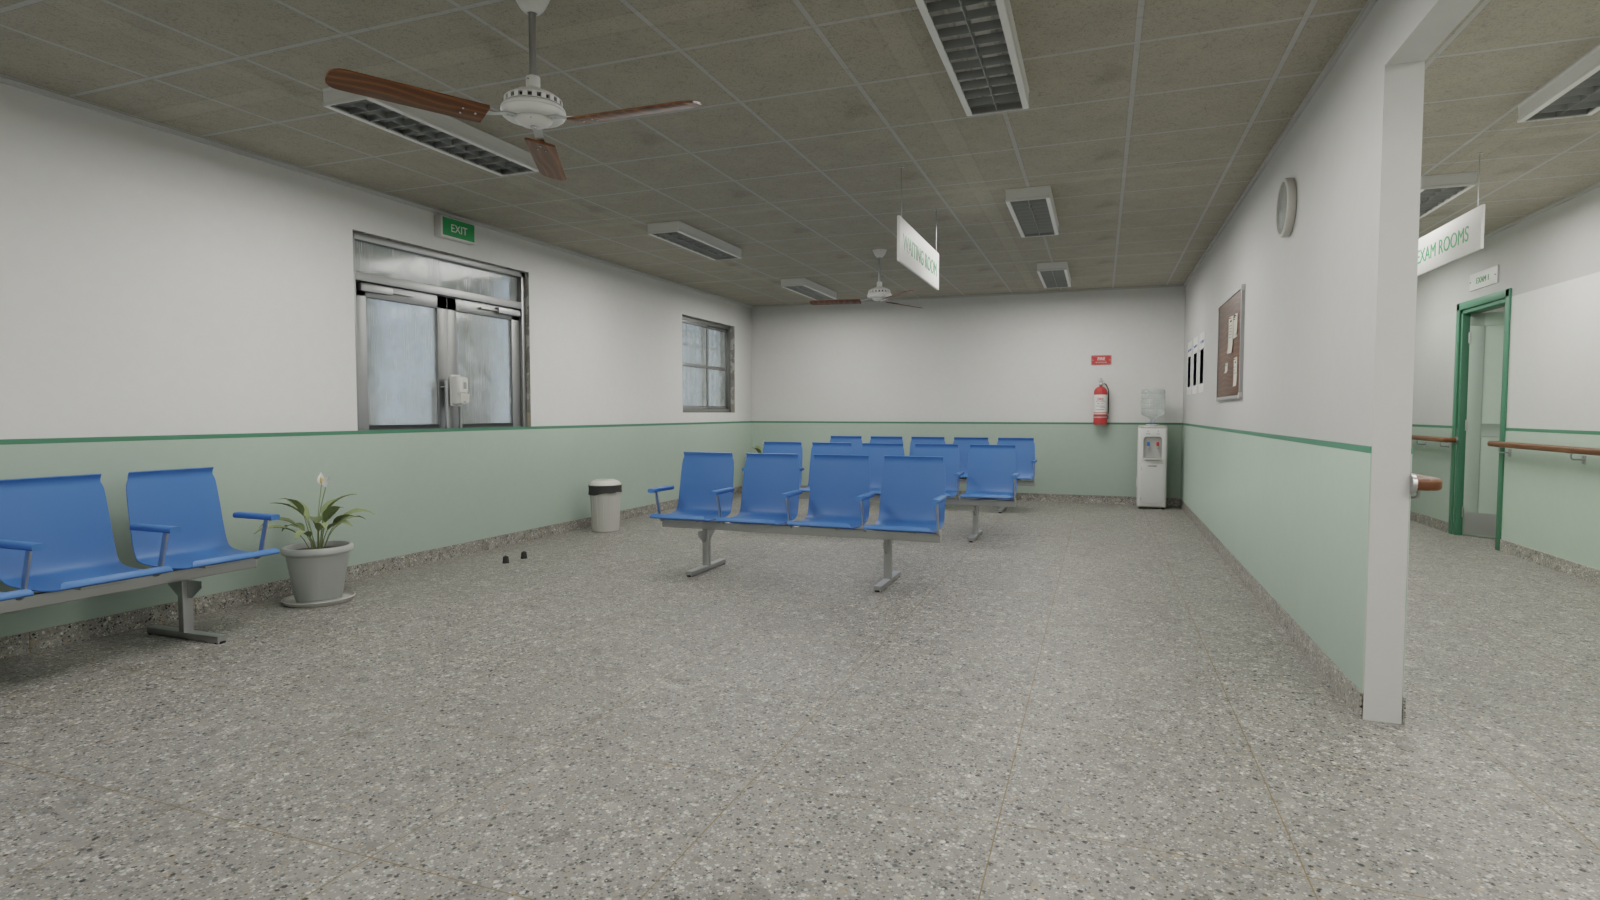
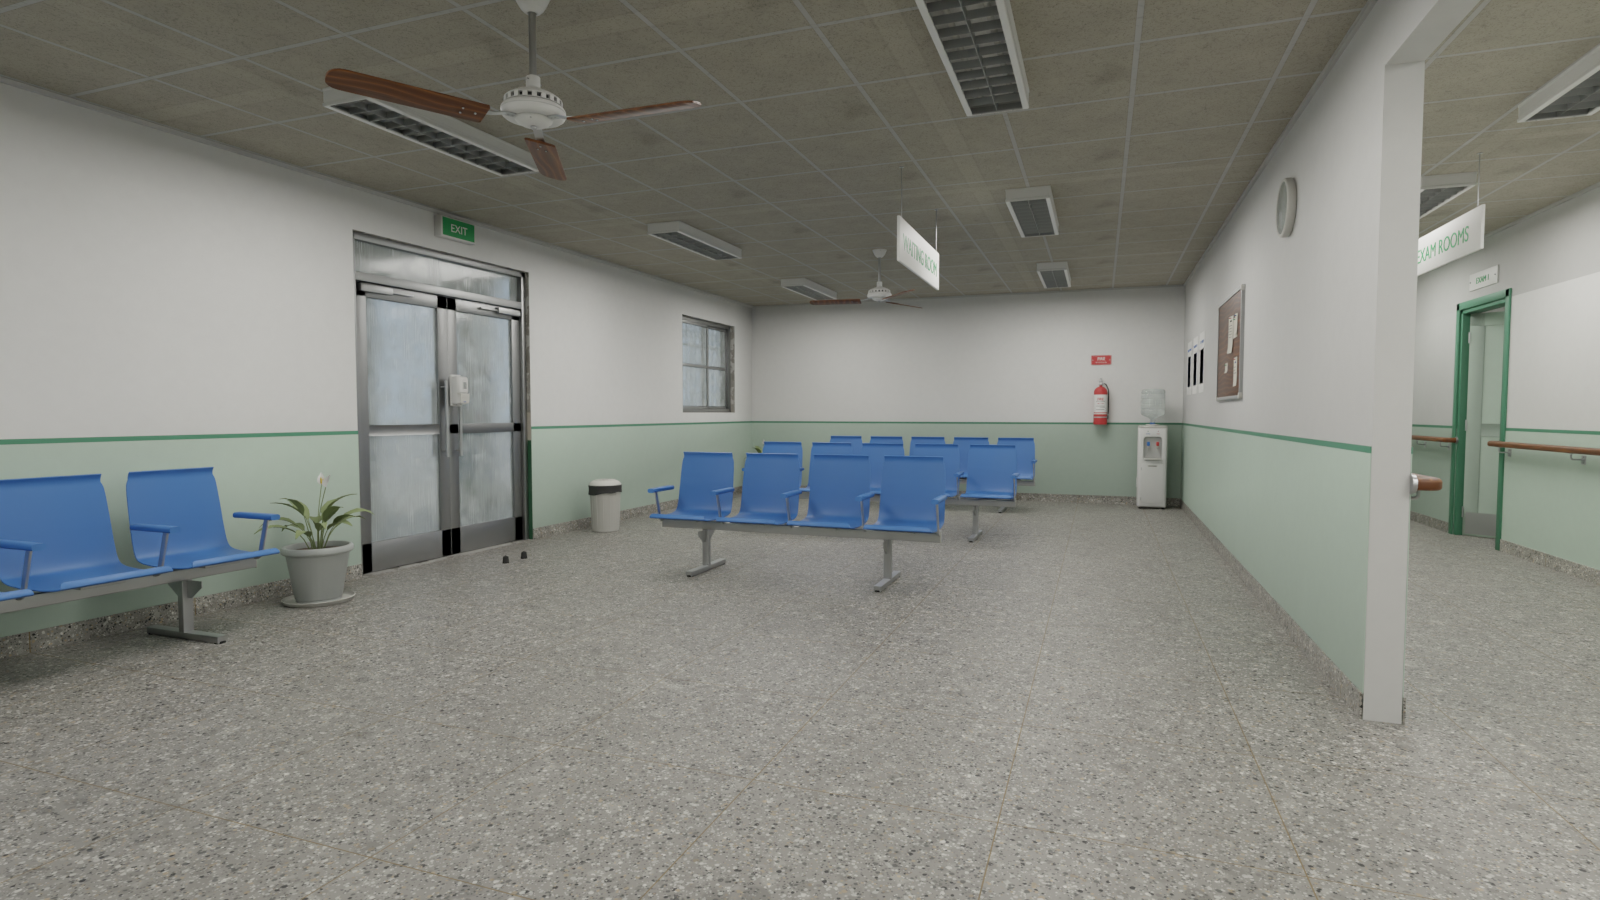
HOS_1: vista previa final de la sala de espera (puerta principal despejada) y ESTADO con las cifras de la entrega
Claude-Session: https://claude.ai/code/session_01QzJUdvU2aDqqRZrKajniAp

Changed region(s): [[0.2188, 0.4667, 0.3438, 0.6533]]

diff --git a/blackisle-kit-edificios/entrega/ESTADO.md b/blackisle-kit-edificios/entrega/ESTADO.md
@@ -426,3 +426,8 @@ honesto de lo que quede por debajo. La primera lámina del mobiliario del hospit
   abandono): ahora el umbral sube con el desgaste (0,52 + 0,70·(1−wear); los demás edificios, wear 1, quedan idénticos);
   (2) el lambrín y el zoclo tapaban el metro inferior de las 4 puertas exteriores y entraban a la colisión (la tolerancia de
   huecos era menor que el grueso del muro exterior): corregido y verificado (coinciden exactamente las 4, sin falsos).
+- **Entrega final al kit UE5** (horneado 14 min, exportación validada): Estructura 10 168 · Detalle 388 886 · **Mobiliario
+  1 574 647** · Vidrio 17 520 · Colision 9 144 triángulos (≈ 2,0 M). GLB del mobiliario 84,6 MB, detalle 21,5 MB;
+  `kit_ue5_descargas/BLACKISLE_UE5_HOS_1_pueblo.zip` 38,6 MiB (un solo ZIP) + común rehecho (65,8 MiB). Vistas previas
+  finales en `render_qa/ue5/HOS_1_pueblo_ue5_{calle,urgencias,trasera,pasillo,encamados,interior}.png`, revisadas a ojo:
+  fachada mantenida, puerta principal hasta el piso, camas tendidas visibles.
